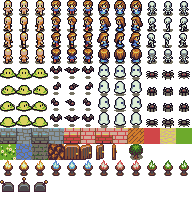
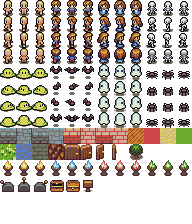
Added a chest

Changed region(s): [[0.25, 0.7812, 0.5, 0.875]]

diff --git a/js/rpg/game.js b/js/rpg/game.js
@@ -404,6 +404,33 @@ class Switch extends GameObject {
     }
 }
 
+class Chest extends GameObject {
+    constructor(x, y) {
+        super(x, y, 16, 16);
+
+        this.frameSets = {
+            'closed': [26],
+            'open': [25],
+        };
+
+        this.open = false;
+        this.animator = new Animator(this.frameSets['closed'], 0, 'pause');
+    }
+
+    interact(user) {
+        this.open = !this.open;
+    }
+
+    update() {
+        this.updateAnimation();
+    }
+
+    updateAnimation() {
+        if (this.open) this.animator.changeFrameSet(this.frameSets['open'], 'pause');
+        else this.animator.changeFrameSet(this.frameSets['closed'], 'pause');
+    }
+}
+
 class SimpleAnimated extends GameObject {
     constructor(x, y, frames, delay) {
         super(x, y, 16, 16);
@@ -433,6 +460,7 @@ class TileSet {
             new Frame(48, 64, 16, 16, 0, 0), new Frame(64, 64, 16, 16, 0, 0), new Frame(80, 64, 16, 16, 0, 0), // enemy-down
             new Frame(0, 160, 16, 16, 0, 0), new Frame(16, 160, 16, 16, 0, 0), new Frame(32, 160, 16, 16, 0, 0), // torch-fire
             new Frame(0, 176, 16, 16, 0, 0), new Frame(16, 176, 16, 16, 0, 0), new Frame(32, 176, 16, 16, 0, 0), // switch
+            new Frame(48, 176, 16, 16, 0, 0), new Frame(64, 176, 16, 16, 0, 0), // chest
         ];
     }
 }
@@ -503,6 +531,8 @@ class World {
                 this.entities.push(new Switch(entity.x * this.tileSet.tileSize, entity.y * this.tileSet.tileSize, [22, 24]));
             else if (entity.type === 'torch')
                 this.entities.push(new SimpleAnimated(entity.x * this.tileSet.tileSize, entity.y * this.tileSet.tileSize, [19, 20, 21], 6));
+            else if (entity.type === 'chest')
+                this.entities.push(new Chest(entity.x * this.tileSet.tileSize, entity.y * this.tileSet.tileSize));
         }
 
         for (let door of zone.doors) {
